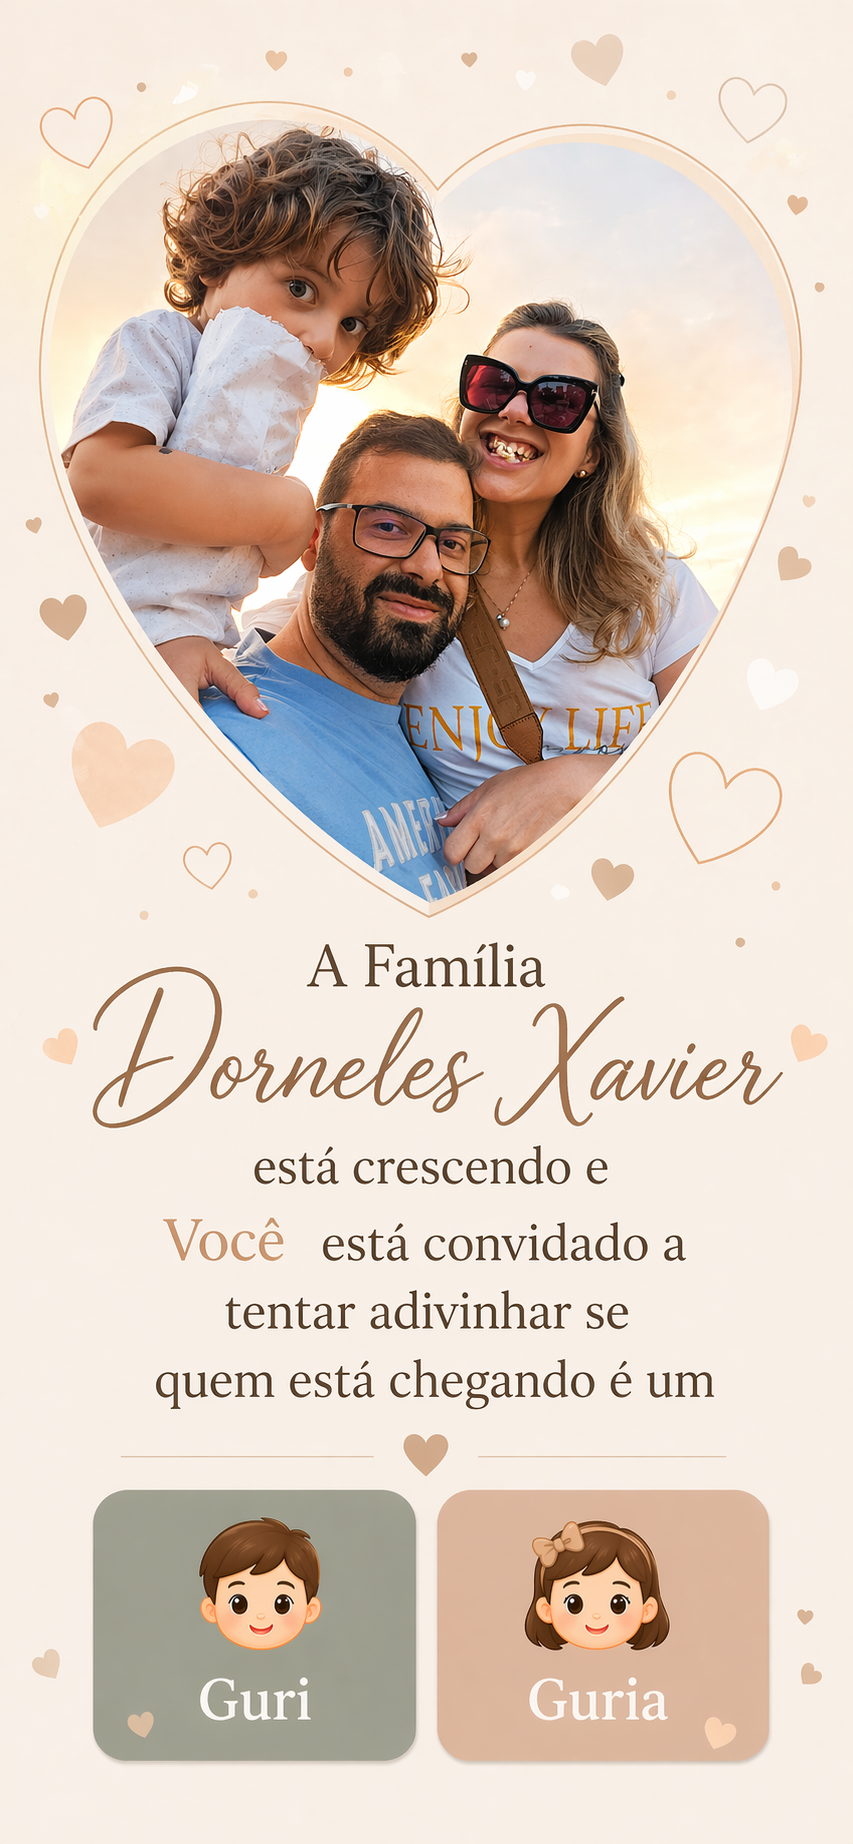
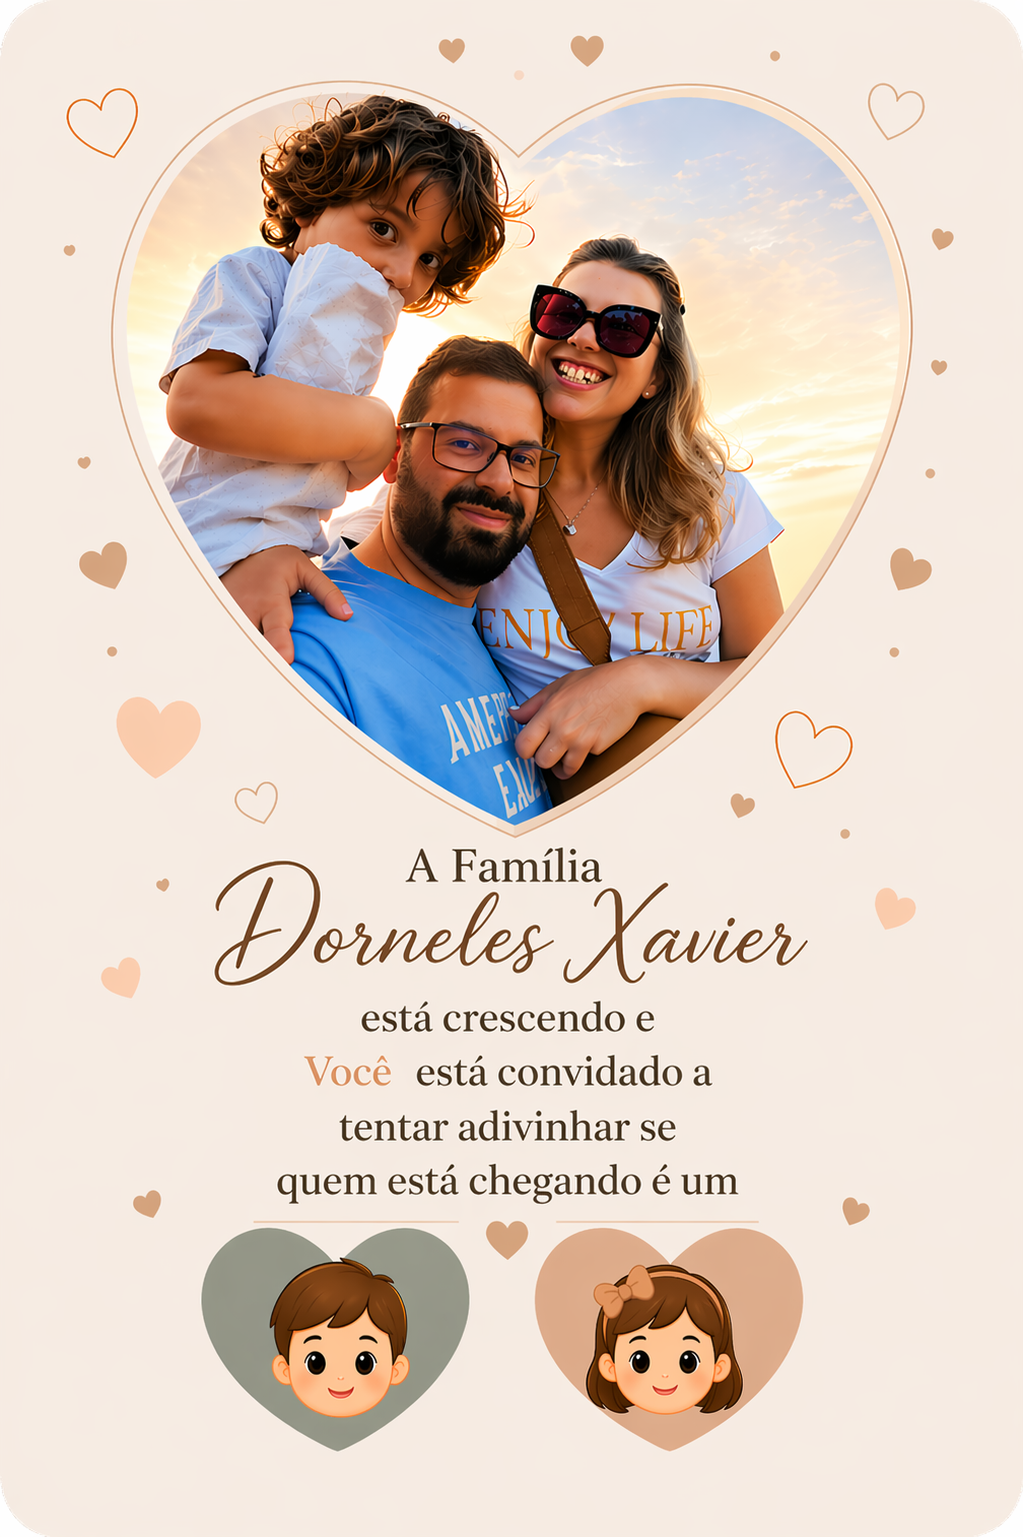
feat: layout pixel perfect final

diff --git a/script.js b/script.js
@@ -1,29 +1,11 @@
-import { initializeApp } from "https://www.gstatic.com/firebasejs/10.7.0/firebase-app.js";
-import { getFirestore, addDoc, collection } from "https://www.gstatic.com/firebasejs/10.7.0/firebase-firestore.js";
-
-// 🔑 CONFIG FIREBASE
-const firebaseConfig = {
-  apiKey: "SUA_API_KEY",
-  authDomain: "SEU_PROJECT.firebaseapp.com",
-  projectId: "SEU_PROJECT_ID"
-};
-
-const app = initializeApp(firebaseConfig);
-const db = getFirestore(app);
-
-const params = new URLSearchParams(window.location.search);
-const guest = params.get("guest") || "Convidado";
-
 let votoUsuario = null;
 
 const btnGuri = document.getElementById("btnGuri");
 const btnGuria = document.getElementById("btnGuria");
 
-// 🗳 VOTO
-window.votar = async function(escolha) {
+function votar(escolha) {
   votoUsuario = escolha;
 
-  // 🎯 feedback visual
   if (escolha === "guri") {
     btnGuri.classList.add("selected");
     btnGuria.classList.add("dimmed");
@@ -32,73 +14,19 @@ window.votar = async function(escolha) {
     btnGuri.classList.add("dimmed");
   }
 
-  // 📳 vibração
-  if (navigator.vibrate) {
-    navigator.vibrate(50);
-  }
+  if (navigator.vibrate) navigator.vibrate(50);
 
   document.getElementById("revealBtn").style.display = "block";
-
-  try {
-    await addDoc(collection(db, "votos"), {
-      escolha,
-      convidado: guest,
-      data: new Date()
-    });
-  } catch (e) {
-    console.error(e);
-  }
-};
-
-// 🎬 REVEAL CLICK
-document.getElementById("revealBtn").addEventListener("click", () => {
-  if (!votoUsuario) {
-    alert("Escolha Guri ou Guria primeiro 👀");
-    return;
-  }
-
-  suspenseThenReveal();
-});
-
-// 🎯 SUSPENSE
-function suspenseThenReveal() {
-  document.body.style.background = "black";
-
-  setTimeout(reveal, 1200);
 }
 
-// 💥 REVEAL
-function reveal() {
-  const sexo = "menina"; // DEFINIDO
+document.getElementById("revealBtn").addEventListener("click", () => {
+  if (!votoUsuario) return alert("Escolha uma opção 👀");
 
-  const card = document.querySelector(".card");
+  const sexo = "menina";
 
-  document.body.style.background =
-    sexo === "menina" ? "#d7b49e" : "#90a4ae";
-
-  const acertou =
-    (sexo === "menina" && votoUsuario === "guria") ||
-    (sexo === "menino" && votoUsuario === "guri");
-
-  card.innerHTML = `
+  document.querySelector(".card").innerHTML = `
     <h1>${sexo === "menina" ? "💖 É UMA GURIA!" : "💙 É UM GURI!"}</h1>
-    <p>${acertou ? "🎉 Você acertou!" : "😅 Quase!"}</p>
-    <button onclick="share()">Compartilhar</button>
   `;
 
-  confetti({
-    particleCount: 300,
-    spread: 120,
-    origin: { y: 0.6 }
-  });
-
-  new Audio("assets/boom.mp3").play();
-}
-
-// 📲 SHARE
-window.share = function() {
-  const url = window.location.href;
-  const text = "Descubra o bebê da família Dorneles Xavier 👶✨";
-
-  window.open(`https://wa.me/?text=${encodeURIComponent(text + " " + url)}`);
-};
+  confetti();
+});

diff --git a/style.css b/style.css
@@ -15,7 +15,7 @@ body {
   max-width: 380px;
   background: linear-gradient(to bottom, #f8f4ef, #efe7df);
   border-radius: 30px;
-  padding: 20px;
+  padding: 15px;
   text-align: center;
   box-shadow: 0 15px 40px rgba(0,0,0,0.2);
 }
@@ -23,43 +23,40 @@ body {
 /* IMAGEM */
 .foto {
   width: 100%;
-  border-radius: 20px;
-  margin-bottom: 10px;
+  border-radius: 25px;
 }
 
 /* BOTÕES */
 .botoes {
   display: flex;
   justify-content: space-between;
-  margin-top: 10px;
+  margin-top: 8px; /* 👈 ajuste fino para alinhar com os ícones */
 }
 
 button {
   width: 48%;
   padding: 14px;
-  border-radius: 20px;
+  border-radius: 18px;
   border: none;
   font-size: 16px;
   cursor: pointer;
-  transition: all 0.2s ease;
+  transition: 0.2s;
 }
 
-/* ESTILO BASE */
+/* CORES CASANDO COM A ARTE */
 .guri {
-  background: #9aa7a1;
+  background: #8f9c95;
   color: white;
 }
 
 .guria {
-  background: #d6b29b;
+  background: #d2a07a;
   color: white;
 }
 
-/* SELECIONADO */
+/* SELEÇÃO */
 .selected {
   transform: scale(1.05);
-  box-shadow: 0 5px 15px rgba(0,0,0,0.2);
-  opacity: 1;
 }
 
 .dimmed {
@@ -70,7 +67,7 @@ button {
 #revealBtn {
   display: none;
   width: 100%;
-  margin-top: 15px;
-  background: #333;
+  margin-top: 10px;
+  background: linear-gradient(to right, #5b3a27, #3b2519);
   color: white;
 }

diff --git a/index.html b/index.html
@@ -11,23 +11,22 @@
 <div class="app">
   <div class="card">
 
-    <!-- IMAGEM COM DESIGN COMPLETO -->
-    <img src="assets/familia.jpg" class="foto" alt="Família Dorneles Xavier">
+    <!-- IMAGEM BASE (SEM ALTERAÇÃO) -->
+    <img src="assets/familia-base.jpg" class="foto">
 
-    <!-- BOTÕES INTERATIVOS -->
+    <!-- BOTÕES HTML -->
     <div class="botoes">
       <button onclick="votar('guri')" id="btnGuri" class="guri">Guri</button>
       <button onclick="votar('guria')" id="btnGuria" class="guria">Guria</button>
     </div>
 
-    <!-- REVEAL -->
     <button id="revealBtn">Descobrir</button>
 
   </div>
 </div>
 
 <script src="https://cdn.jsdelivr.net/npm/canvas-confetti@1.6.0/dist/confetti.browser.min.js"></script>
-<script type="module" src="script.js"></script>
+<script src="script.js"></script>
 
 </body>
 </html>
